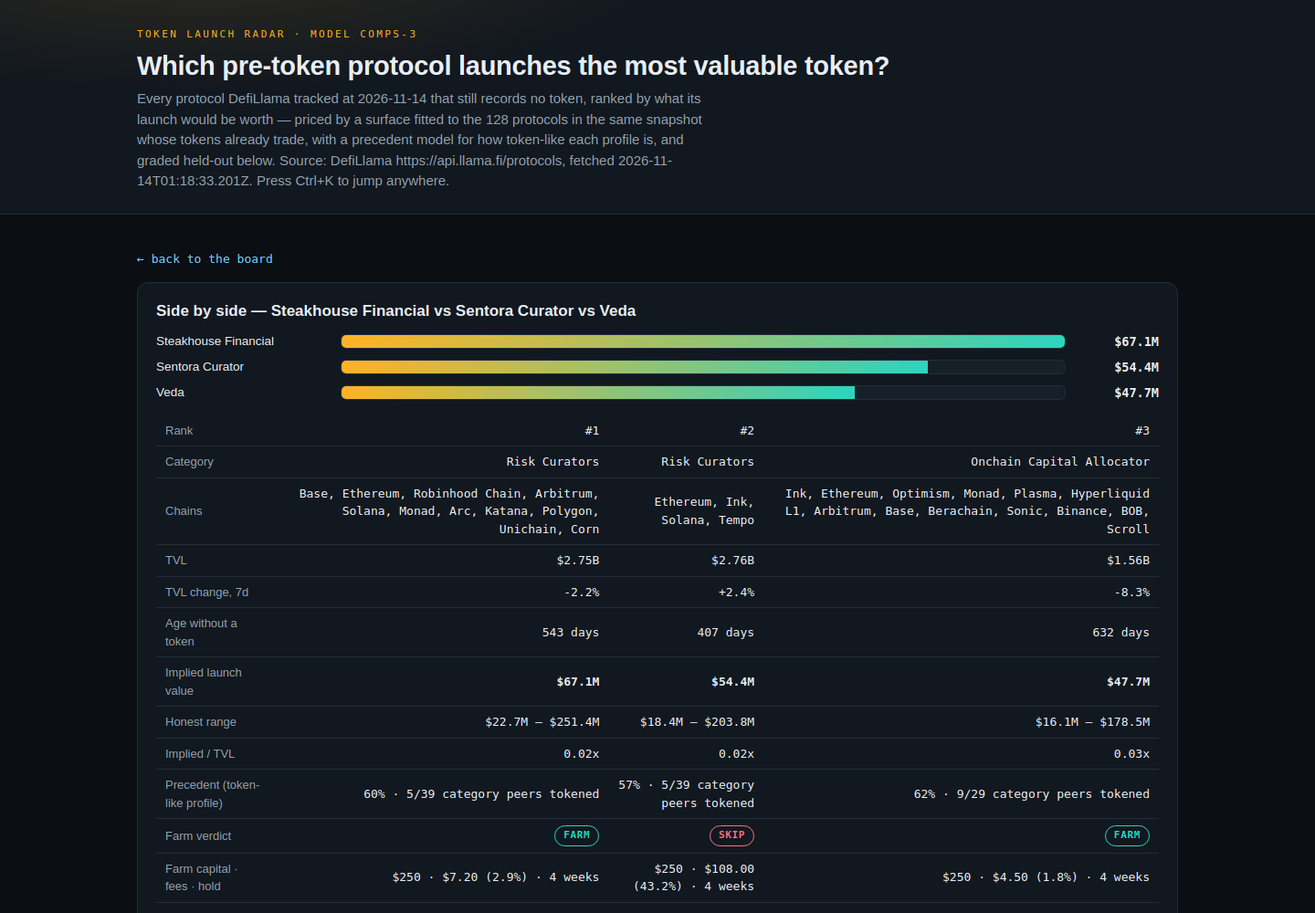
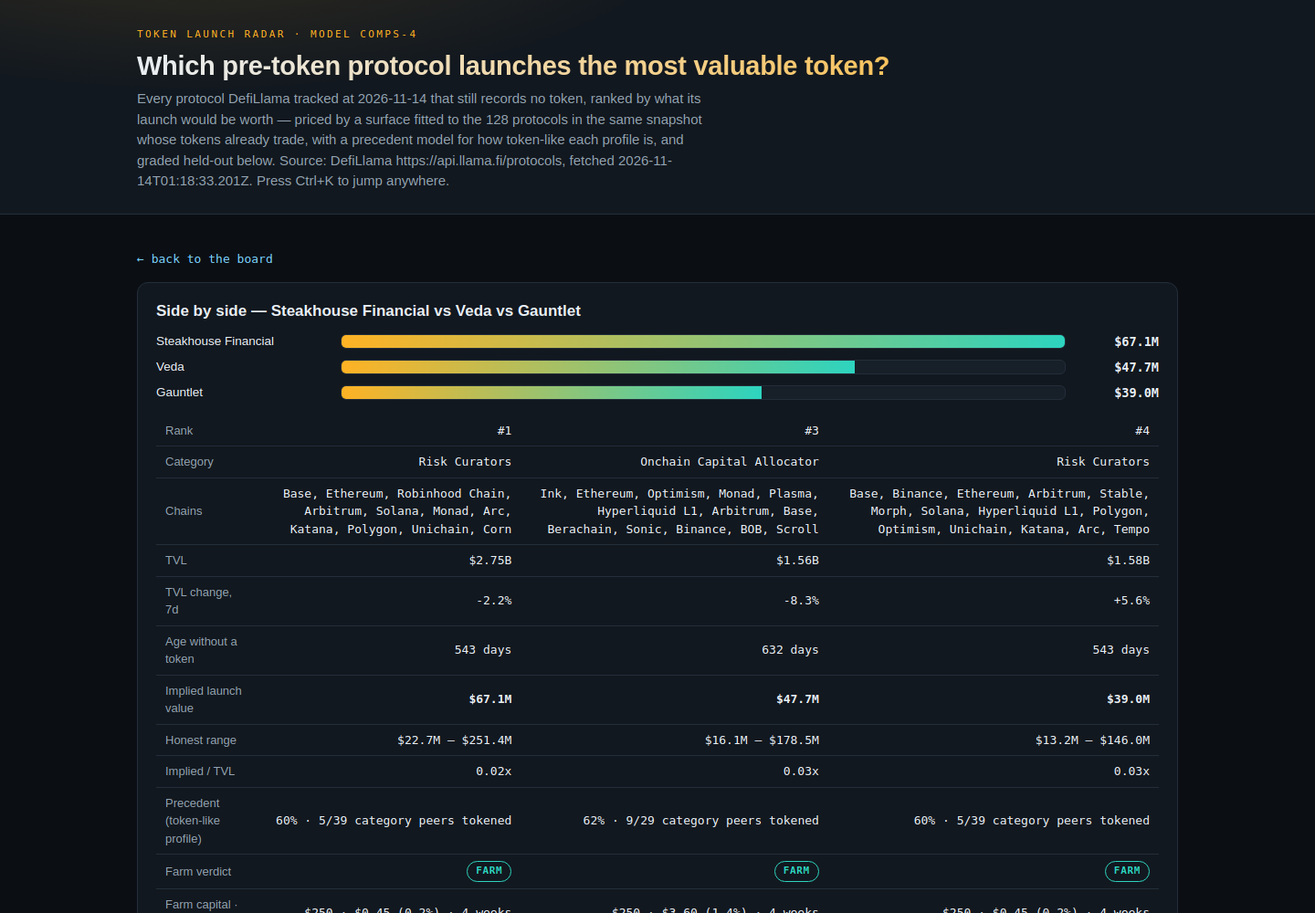
Model comps-4: side-by-side detail, weekly farm schedule, smart gas routing
- Detail view: farm plan and capital simulator side by side, model math
  collapsible below (no tabs); both visible in one viewport/screenshot
- Farm plans: week-by-week execution schedule with rotating category
  actions and cumulative fees (max 5 weeks spelled out + summary;
  10-12 steps per plan, inside the gate)
- Gas routing: plans run on the cheapest chain in the protocol's own
  chain list, with the main-chain counterfactual stated (45 routed;
  verdicts FARM 82 / THIN 81 / SKIP 35, was 51/88/59); Binance alias
  added to the gas table (the snapshot's name for BNB Chain)
- Model panel reordered so both fits grade in one screenshot; precedent
  note records the chain-count term tried and rejected held-out
  (AUC 0.611 vs 0.626 - Task D reverted per the ship rule)
- Value model, precedent model, board composition and ranking unchanged
  from comps-3 (verified: identical implied values and precedent %)

diff --git a/lib/model.ts b/lib/model.ts
@@ -1,4 +1,4 @@
-// Token launch radar — model "comps-3".
+// Token launch radar — model "comps-4".
 //
 // One sealed DefiLlama snapshot in, one ranked board out. Nothing here touches
 // the network and nothing is keyed to a protocol's name: every number a row
@@ -93,7 +93,7 @@ export interface Snapshot {
   watchlist: string[];
 }
 
-export const MODEL_VERSION = 'comps-3';
+export const MODEL_VERSION = 'comps-4';
 
 /** Shrinkage for the category term: a category's median residual counts n/(n+K). */
 export const CATEGORY_SHRINK_K = 12;
@@ -108,7 +108,7 @@ export const UNKNOWN_AGE_DAYS = 365;
 /** Gas per transaction in USD by main chain: the farm plan's price list, stated in the dashboard. */
 export const GAS_USD: Record<string, number> = {
   Ethereum: 12, Solana: 0.05, Base: 0.8, Arbitrum: 0.6, Optimism: 0.6,
-  'BNB Chain': 0.4, Polygon: 0.1, Avalanche: 0.5, Tron: 0.3, Sui: 0.05, Aptos: 0.05,
+  'BNB Chain': 0.4, Binance: 0.4, Polygon: 0.1, Avalanche: 0.5, Tron: 0.3, Sui: 0.05, Aptos: 0.05,
 };
 export const GAS_DEFAULT_USD = 0.5;
 
@@ -293,25 +293,27 @@ function oddsFeatures(snapshot: Snapshot, p: SnapshotProtocol): number[] {
   return [1, Math.log10(Math.max(1, p.tvl_usd)), Math.log10(1 + age)];
 }
 
+const dot = (a: number[], b: number[]): number => a.reduce((s, v, i) => s + v * b[i]!, 0);
+
 /** Logistic regression by Newton-Raphson on the normal equations, tiny ridge for stability. */
 function fitLogistic(rows: OddsRow[]): number[] {
-  let beta = [0, 0, 0];
+  const K = rows[0]?.x.length ?? 4;
+  let beta = Array.from({ length: K }, () => 0);
   for (let iter = 0; iter < 100; iter++) {
-    const g = [0, 0, 0];
-    const H = [[0, 0, 0], [0, 0, 0], [0, 0, 0]];
+    const g = Array.from({ length: K }, () => 0);
+    const H = Array.from({ length: K }, () => Array.from({ length: K }, () => 0));
     for (const r of rows) {
-      const z = beta[0]! * r.x[0]! + beta[1]! * r.x[1]! + beta[2]! * r.x[2]!;
-      const p = sigmoid(z);
+      const p = sigmoid(dot(beta, r.x));
       const w = Math.max(1e-9, p * (1 - p));
-      for (let i = 0; i < 3; i++) {
+      for (let i = 0; i < K; i++) {
         g[i]! += r.x[i]! * (r.y - p);
-        for (let j = 0; j < 3; j++) H[i]![j]! += r.x[i]! * r.x[j]! * w;
+        for (let j = 0; j < K; j++) H[i]![j]! += r.x[i]! * r.x[j]! * w;
       }
     }
-    H[0]![0]! += 1e-6; H[1]![1]! += 1e-6; H[2]![2]! += 1e-6;
+    for (let i = 0; i < K; i++) H[i]![i]! += 1e-6;
     const step = solve(H, g);
     let mx = 0;
-    for (let i = 0; i < 3; i++) { beta[i]! += step[i]!; mx = Math.max(mx, Math.abs(step[i]!)); }
+    for (let i = 0; i < K; i++) { beta[i]! += step[i]!; mx = Math.max(mx, Math.abs(step[i]!)); }
     if (mx < 1e-10) break;
   }
   return beta;
@@ -351,7 +353,7 @@ export function fitPrecedent(snapshot: Snapshot): OddsFit {
     const train = rows.filter((_, i) => i % FOLDS !== f);
     const test = rows.filter((_, i) => i % FOLDS === f);
     const c = fitLogistic(train);
-    for (const r of test) held.push({ p: sigmoid(c[0]! * r.x[0]! + c[1]! * r.x[1]! + c[2]! * r.x[2]!), y: r.y });
+    for (const r of test) held.push({ p: sigmoid(dot(c, r.x)), y: r.y });
   }
   const brier = held.reduce((s, r) => s + (r.p - r.y) ** 2, 0) / held.length;
   const base = rows.reduce((s, r) => s + r.y, 0) / rows.length;
@@ -366,7 +368,7 @@ export function fitPrecedent(snapshot: Snapshot): OddsFit {
 
 export function precedentPct(fit: OddsFit, snapshot: Snapshot, p: SnapshotProtocol): number {
   const x = oddsFeatures(snapshot, p);
-  return Math.round(100 * sigmoid(fit.coef[0]! * x[0]! + fit.coef[1]! * x[1]! + fit.coef[2]! * x[2]!));
+  return Math.round(100 * sigmoid(dot(fit.coef, x)));
 }
 
 /** Category peer counts over the whole snapshot: how many peers record a token. */
@@ -393,6 +395,10 @@ export interface FarmPlan {
   verdict: 'FARM' | 'THIN' | 'SKIP';
   verdict_reason: string;
   steps: string[];
+  /** Set only when the plan routes gas to a cheaper chain in the protocol's own list. */
+  routed_chain?: string;
+  original_chain?: string;
+  original_gas?: number;
 }
 
 function capitalFor(tvl: number): number {
@@ -438,34 +444,90 @@ function actionsFor(p: SnapshotProtocol): { primary: string; secondary: string }
   return { primary: `deposit USDC into ${n} and keep the position open`, secondary: `make a second, smaller deposit from the same wallet` };
 }
 
+/** Four rotating weekly actions per category family — the week-by-week execution schedule. */
+function weeklyActionsFor(p: SnapshotProtocol): string[] {
+  const c = (p.category ?? '').toLowerCase();
+  const n = p.name;
+  if (c.includes('lend') || c.includes('cdp') || c.includes('collateral'))
+    return [`deposit extra USDC collateral to ${n}`, `repay a slice of the borrow, then borrow it back`, `claim any lending rewards ${n} shows for the wallet`, `rebalance the collateral ratio on ${n} back to its starting level`];
+  if (c.includes('dex') || c.includes('amm'))
+    return [`swap a small USDC amount through ${n}'s main pool`, `add a little liquidity to a second ${n} pair`, `claim the LP fees ${n} accrued for the wallet`, `rebalance the liquidity position in ${n} to the current price`];
+  if (c.includes('curator') || c.includes('allocator'))
+    return [`deposit a small extra amount into the primary ${n} vault`, `shift a small share of the position to ${n}'s second vault`, `claim the vault yield ${n} shows for the wallet`, `rebalance the position between ${n}'s vaults`];
+  if (c.includes('derivative') || c.includes('perpetual'))
+    return [`adjust the margin on the hedged ${n} position`, `close one leg of the hedge and reopen it at the current price`, `claim any funding or rebate ${n} shows for the wallet`, `open a second small hedge in a different ${n} pair`];
+  if (c.includes('prediction'))
+    return [`take a small position in a different ${n} market`, `exit part of an existing ${n} position`, `claim any resolved winnings from ${n}`, `re-enter a ${n} market with updated sizing`];
+  if (c.includes('yield'))
+    return [`claim the yield from ${n}'s vault and redeposit it`, `deposit a small extra amount into ${n}`, `compare ${n}'s vaults and shift to the best rate`, `compound the accumulated rewards inside ${n}`];
+  if (c.includes('rwa'))
+    return [`mint a small additional amount of ${n}'s yield asset`, `redeem a small part of the ${n} position and mint it again`, `claim any distribution ${n} shows for the wallet`, `review and renew the ${n} position`];
+  return [`deposit a small extra amount into ${n}`, `use a secondary feature of ${n}'s app`, `claim any rewards ${n} shows for the wallet`, `rebalance or renew the ${n} position`];
+}
+
+/** The cheapest gas chain in a protocol's own chain list — plans route there when it beats the main chain. */
+function bestChain(chains: string[]): { chain: string; gas: number; routed: boolean; original_chain: string; original_gas: number } {
+  if (chains.length === 0)
+    return { chain: 'its main chain', gas: GAS_DEFAULT_USD, routed: false, original_chain: 'its main chain', original_gas: GAS_DEFAULT_USD };
+  const primary = chains[0]!;
+  const primaryGas = GAS_USD[primary] ?? GAS_DEFAULT_USD;
+  let bestName = primary;
+  let bestGas = primaryGas;
+  for (const ch of chains) {
+    const g = GAS_USD[ch];
+    if (g !== undefined && g < bestGas) { bestName = ch; bestGas = g; }
+  }
+  return { chain: bestName, gas: bestGas, routed: bestName !== primary, original_chain: primary, original_gas: primaryGas };
+}
+
 const money = (v: number): string => (v >= 100 ? `$${Math.round(v)}` : `$${v.toFixed(2)}`);
 
-/** A protocol's costed farm plan: every step names its cost and its time. */
+/** A protocol's costed farm plan: gas routed to the cheapest of its own chains, a week-by-week schedule, every step costed and timed. */
 export function farmPlan(p: SnapshotProtocol, age: number | null): FarmPlan {
-  const chain = p.chains.length > 0 ? p.chains[0]! : 'its main chain';
-  const gas = GAS_USD[chain] ?? GAS_DEFAULT_USD;
+  const route = bestChain(p.chains);
+  const chain = route.chain;
+  const gas = route.gas;
   const capital = capitalFor(p.tvl_usd);
   const weeks = weeksFor(age);
   const txCount = weeks + 5; // wallet setup, primary, secondary, one weekly action per week, claim, exit
   const fees = Math.round(gas * txCount * 100) / 100;
   const drag = fees / capital;
   const verdict = drag <= FARM_MAX_DRAG ? 'FARM' : drag <= THIN_MAX_DRAG ? 'THIN' : 'SKIP';
-  const verdict_reason = verdict === 'FARM'
+  let verdict_reason = verdict === 'FARM'
     ? `fees of ${money(fees)} are ${(drag * 100).toFixed(1)}% of the ${money(capital)} position, under the 5% FARM line`
     : verdict === 'THIN'
       ? `fees of ${money(fees)} are ${(drag * 100).toFixed(1)}% of the ${money(capital)} position: farm only with a larger position or a cheaper chain`
       : `fees of ${money(fees)} eat ${(drag * 100).toFixed(1)}% of the ${money(capital)} position, over the 15% SKIP line at this size`;
+  if (route.routed) {
+    const origFees = Math.round(route.original_gas * txCount * 100) / 100;
+    const origDrag = origFees / capital;
+    const origVerdict = origDrag <= FARM_MAX_DRAG ? 'FARM' : origDrag <= THIN_MAX_DRAG ? 'THIN' : 'SKIP';
+    verdict_reason += ` — routed from ${route.original_chain} at ${money(route.original_gas)} a transaction, where the same plan would be ${origVerdict} at ${(origDrag * 100).toFixed(1)}% drag`;
+  }
   const { primary, secondary } = actionsFor(p);
+  const rotation = weeklyActionsFor(p);
   const steps = [
-    `Open a fresh wallet for ${p.name} alone and keep its seed phrase offline on paper. Cost: ${money(gas)} for the first ${chain} transaction. Time: 5 minutes.`,
+    `Open a fresh wallet for ${p.name} alone and keep its seed phrase offline on paper. Cost: ${money(gas)} for the first ${chain} transaction${route.routed ? ` — the plan runs on ${chain}, the cheapest chain in ${p.name}'s own list, not on ${route.original_chain} at ${money(route.original_gas)} a transaction` : ''}. Time: 5 minutes.`,
     `Capital step: ${primary}. Cost: ${money(capital)} of capital plus ${money(gas)} of ${chain} gas. Time: 15 minutes to set up.`,
     `Second action: ${secondary}. Cost: ${money(gas)} of ${chain} gas, no new capital. Time: 10 minutes.`,
-    `Repeat one qualifying action a week for ${weeks} weeks (a deposit, a swap, a claim or a vote in ${p.name}'s app). Cost: ${money(gas)} a week, ${money(gas * weeks)} in all. Time: 10 minutes a week.`,
-    `Hold the ${money(capital)} position for the full ${weeks} weeks so the activity spans more than one weekly snapshot. Cost: the capital stays locked; the whole plan's fees come to ${money(fees)}. Time: ${weeks} weeks.`,
-    `Check ${p.name}'s own points or rewards page and claim only from the link it publishes; never pay a third party to claim. Cost: ${money(gas)} of gas, and no fee to check. Time: 10 minutes.`,
-    `Log the wallet, the dates and every transaction hash, then unwind or roll the position by the same steps in reverse. Cost: ${money(gas)} of gas to exit. Time: 10 minutes.`,
   ];
-  return { capital_usd: capital, gas_per_tx_usd: gas, weeks, fees_usd: fees, fee_drag_pct: Math.round(drag * 1000) / 10, verdict, verdict_reason, steps };
+  // Week-by-week schedule: at most 5 weeks spelled out, the rest summarised — keeps every plan inside the 12-step gate.
+  const MAX_WEEK_STEPS = 5;
+  const detailedWeeks = Math.min(weeks, MAX_WEEK_STEPS);
+  for (let w = 0; w < detailedWeeks; w++) {
+    const action = rotation[w % rotation.length]!;
+    steps.push(`Week ${w + 1}: ${action}. Cost: ${money(gas)} of ${chain} gas; cumulative plan fees so far ${money(gas * (4 + w))}. Time: 10 minutes.`);
+  }
+  if (weeks > MAX_WEEK_STEPS) {
+    const remaining = weeks - MAX_WEEK_STEPS;
+    steps.push(`Weeks ${MAX_WEEK_STEPS + 1}–${weeks}: keep the same weekly rotation for ${remaining} more weeks, one transaction a week. Cost: ${money(gas * remaining)} of ${chain} gas in all. Time: 10 minutes a week.`);
+  }
+  steps.push(`Hold the ${money(capital)} position open across the whole ${weeks}-week schedule so the activity spans more than one weekly snapshot. Cost: the capital stays locked; the whole plan's fees come to ${money(fees)}. Time: ${weeks} weeks.`);
+  steps.push(`Check ${p.name}'s own points or rewards page and claim only from the link it publishes; never pay a third party to claim. Cost: ${money(gas)} of gas, and no fee to check. Time: 10 minutes.`);
+  steps.push(`Log the wallet, the dates and every transaction hash, then unwind or roll the position by the same steps in reverse. Cost: ${money(gas)} of gas to exit. Time: 10 minutes.`);
+  const plan: FarmPlan = { capital_usd: capital, gas_per_tx_usd: gas, weeks, fees_usd: fees, fee_drag_pct: Math.round(drag * 1000) / 10, verdict, verdict_reason, steps };
+  if (route.routed) { plan.routed_chain = chain; plan.original_chain = route.original_chain; plan.original_gas = route.original_gas; }
+  return plan;
 }
 
 // ---------- the board ----------

diff --git a/dashboard/app.js b/dashboard/app.js
@@ -71,7 +71,6 @@ function modelPanel() {
     the comps (shrunk by n/(n+12) so thin categories barely count), then tilted once, by track record
     (0.6–1.0 over three years without a token). No protocol's name is an input. The grading below is 5-fold held-out,
     recomputed on every run of the program: each fold's comps are predicted from a fit on the other four.</p>
-    ${scatter()}
     <table class="val"><thead><tr><th>Model</th><th>Median held-out error</th><th>Reading</th></tr></thead><tbody>
       <tr><td>Flat 0.25 × TVL (the starter rule)</td><td>${v.flat.toFixed(2)}x</td><td>a typical comp is missed by this factor</td></tr>
       <tr><td>Size-only curve + category term</td><td>${v.curveCat.toFixed(2)}x</td><td>TVL alone, fitted</td></tr>
@@ -85,7 +84,10 @@ function modelPanel() {
     exception, not the rule. Graded ${o.folds}-fold held-out like the value model: <b>AUC ${o.auc}</b> (0.5 is guessing) and
     <b>Brier ${o.brier}</b>, against ${o.base_brier} for always answering the base rate — a modest, honest edge, printed
     because a radar should show its instruments' limits. Each board row carries the estimate plus the raw count behind it:
-    how many of its category peers already record a token. It is a precedent rate, never a promise that a token comes.</p>
+    how many of its category peers already record a token. It is a precedent rate, never a promise that a token comes.
+    A chain-count term (how many chains a protocol runs on) was tried as a third predictor and rejected: it graded worse
+    held out (AUC 0.611 against this model's ${o.auc}), so it is not in the fit.</p>
+    ${scatter()}
   </section>`;
 }
 
@@ -143,7 +145,7 @@ function boardView() {
     <td>${r.age_days === null ? '—' : fmtN(r.age_days) + 'd'}</td>
     <td><b>${r.precedent_pct}%</b><span class="slug">${r.peer_token}/${r.peer_total} peers tokened</span></td>
     <td><b>${fmt$(r.implied_value_usd)}</b></td>
-    <td><span class="badge ${r.farm.verdict}">${r.farm.verdict}</span></td>
+    <td><span class="badge ${r.farm.verdict}">${r.farm.verdict}</span>${r.farm.routed_chain ? `<span class="routed">→ ${esc(r.farm.routed_chain)}</span>` : ''}</td>
     <td class="tools"><button class="tool pinb" data-pin="${esc(r.slug)}" title="Pin this protocol">${pins.has(r.slug) ? 'pinned' : 'pin'}</button><label class="cmpl" title="Select to compare"><input type="checkbox" data-cmp="${esc(r.slug)}" ${cmp.includes(r.slug) ? 'checked' : ''}> cmp</label></td></tr>`).join('');
   const pinStrip = pins.size === 0 ? '' : `<div class="strip"><span class="strip-label">Pinned:</span>${[...pins].map((s) => `<a class="chip" href="#/p/${esc(s)}">${esc(bySlug.get(s).name)}</a>`).join('')}<button class="tool" id="clearpins">clear pins</button></div>`;
   const cmpBar = cmp.length === 0 ? '' : `<div class="strip cmpstrip"><span class="strip-label">Compare (${cmp.length}/3):</span>${cmp.map((s) => `<span class="chip">${esc(bySlug.get(s).name)}</span>`).join('')}<button class="tool go" id="gocmp" ${cmp.length < 2 ? 'disabled' : ''}>compare side by side →</button><button class="tool" id="clearcmp">clear</button></div>`;
@@ -207,8 +209,7 @@ function compareView() {
   <p class="note">Every figure is the board's own: implied values from the fitted surface, ranges from the comps' residuals, precedent from the logistic fit and its peer counts, farm figures from each protocol's costed plan.</p></section>`;
 }
 
-/* ---------- detail view: tabs for plan, model math, simulator ---------- */
-let dtab = 'plan';
+/* ---------- detail view: farm plan and simulator side by side, model math below ---------- */
 const simState = new Map();
 function simFor(r) {
   if (!simState.has(r.slug)) simState.set(r.slug, { capital: r.farm.capital_usd, pool: 2, share: 0.25 });
@@ -225,28 +226,27 @@ function simCalc(r) {
     breakeven: r.implied_value_usd * s.share > 0 ? (fees / (r.implied_value_usd * s.share)) * 10000 : 0,
   };
 }
-function simPanel(r) {
+function simColumn(r) {
   const s = simFor(r), c = simCalc(r);
   const num = (id, val, step) => `<input type="number" id="${id}" value="${val}" step="${step}" min="0">`;
-  return `<section class="panel"><h2>Capital simulator — what the plan pays under stated assumptions</h2>
+  return `<div class="dcol"><h3>Capital simulator — what the plan pays under stated assumptions</h3>
     <p class="note">Scenario arithmetic, not a forecast. You set three assumptions; the page does the rest from this row's own
     figures. The reward pool is the share of the launch's implied value you assume is paid to farmers; your share is the slice
     of that pool you assume this one wallet earns. The plan's fees are gas-driven and do not scale with capital.</p>
-    <div class="sim">
+    <div class="sim-compact">
       <label>Your capital (USD) ${num('simcap', s.capital, '10')}</label>
-      <label>Reward pool, % of implied value ${num('simpool', s.pool, '0.5')}</label>
+      <label>Reward pool, % of implied ${num('simpool', s.pool, '0.5')}</label>
       <label>Your share of the pool, % ${num('simshare', s.share, '0.1')}</label>
     </div>
-    <div class="stats">
+    <div class="stats s2">
       <div class="stat"><b>${fmt$(c.low)} – ${fmt$(c.high)}</b><span>reward at the honest range</span></div>
       <div class="stat"><b>${fmt$(c.mid)}</b><span>reward at the implied value</span></div>
       <div class="stat"><b class="${c.net >= 0 ? 'pos' : 'neg'}">${c.net >= 0 ? '+' : '−'}${fmt$(Math.abs(c.net))}</b><span>net of the plan's $${c.fees.toFixed(2)} fees, at implied</span></div>
       <div class="stat"><b>${c.roi.toFixed(1)}%</b><span>net return on your capital</span></div>
     </div>
     <p class="note">Break-even: the pool would need to be <b>${c.breakeven.toFixed(2)}%</b> of the implied value (at your assumed share)
-    for the reward to cover the plan's fees alone. Compare that with what launches in this category have historically shared —
-    the model's job is the value and the precedent; the assumptions, and the call, are yours.</p>
-  </section>`;
+    for the reward to cover the plan's fees alone. The model's job is the value and the precedent; the assumptions, and the call, are yours.</p>
+  </div>`;
 }
 
 function detailView(r) {
@@ -255,13 +255,11 @@ function detailView(r) {
   const drift = Math.abs(recomputed - r.implied_value_usd) / r.implied_value_usd;
   const prec = Math.round(100 * sigmoid(o.a + o.b * Math.log10(Math.max(1, r.tvl_usd)) + o.c * Math.log10(1 + (r.age_days ?? 365))));
   const stat = (b, s) => `<div class="stat"><b>${b}</b><span>${s}</span></div>`;
-  const tabs = [['plan', 'Farm plan'], ['math', 'Model math'], ['sim', 'Simulator']].map(([k, t]) => `<button class="tab ${dtab === k ? 'on' : ''}" data-tab="${k}">${t}</button>`).join('');
-  let body = '';
-  if (dtab === 'plan') body = `<section class="panel"><h2>Farm plan — costed, with a verdict</h2>
-    <div class="planhead"><span class="badge ${r.farm.verdict}">${r.farm.verdict}</span><span class="why">${esc(r.farm.verdict_reason)}. Gas is priced on ${esc(r.chains[0] || 'its main chain')} at $${r.farm.gas_per_tx_usd} a transaction, the plan's stated rate.</span></div>
+  const planCol = `<div class="dcol"><h3>Farm plan — costed, with a verdict</h3>
+    <div class="planhead"><span class="badge ${r.farm.verdict}">${r.farm.verdict}</span>${r.farm.routed_chain ? `<span class="badge FARM route">ROUTED → ${esc(r.farm.routed_chain)}</span>` : ''}<span class="why">${esc(r.farm.verdict_reason)}. Gas is priced on ${esc(r.farm.routed_chain || r.chains[0] || 'its main chain')} at $${r.farm.gas_per_tx_usd} a transaction, the plan's stated rate.</span></div>
     <ol class="steps">${r.farm_steps.map((s) => `<li>${esc(s)}</li>`).join('')}</ol>
-  </section>`;
-  else if (dtab === 'math') body = `<section class="panel"><h2>How this value is derived — recomputed here, in the page</h2>
+  </div>`;
+  const mathSection = `<details class="panel"><summary>Model math — how this value is derived, recomputed here in the page</summary>
     <div class="calc">
       size line&nbsp;&nbsp;&nbsp;= 10^(${f.a} + ${f.b} × log10(${fmtN(r.tvl_usd)})) = ${fmt$(Math.pow(10, f.a + f.b * Math.log10(Math.max(1, r.tvl_usd))))}<br>
       momentum term = 10^(${f.g} × ${r.growth_term}) — its 7-day TVL change of ${pct(r.change_7d)}, winsorized, inside the fit<br>
@@ -273,8 +271,8 @@ function detailView(r) {
     </div>
     <p class="note">Read it as the market's own pricing carried across: protocols like this one, at this size, in this category,
     trade at these values today. It is a claim about what a launch would be worth if the record stayed as it is — not a prediction that a token comes.</p>
-  </section>`;
-  else body = simPanel(r);
+  </details>`;
+  const body = `<div class="detail-split">${planCol}${simColumn(r)}</div>${mathSection}`;
   return `<p><a class="back" href="#/">← back to the board</a> &nbsp;<button class="tool pinb" data-pin="${esc(r.slug)}">${pins.has(r.slug) ? 'pinned' : 'pin this protocol'}</button></p>
   <div class="dhead"><h2>${esc(r.name)}</h2><span class="badge ${r.farm.verdict}">${r.farm.verdict}</span>${r.watchlist ? '<span class="watch">ON THE WATCHLIST</span>' : '<span class="slug">found under the watchlist floor</span>'}</div>
   <p class="note">${esc(r.slug)} · ${esc(r.category || 'uncategorised')} · on ${esc(r.chains.join(', ') || 'no named chain')} · records no token in the ${R.as_of} snapshot (no market cap, no CoinGecko id, no symbol).</p>
@@ -288,7 +286,6 @@ function detailView(r) {
     ${stat('$' + r.farm.fees_usd.toFixed(2), `plan fees · ${r.farm.fee_drag_pct}% of capital`)}
     ${stat(r.farm.weeks + ' weeks', 'plan hold')}
   </div>
-  <div class="tabs">${tabs}</div>
   ${body}`;
 }
 
@@ -333,11 +330,10 @@ function render() {
   if (m && bySlug.has(m[1])) {
     app.innerHTML = detailView(bySlug.get(m[1]));
     window.scrollTo(0, 0);
-    app.querySelectorAll('[data-tab]').forEach((b) => b.addEventListener('click', () => { dtab = b.dataset.tab; render(); }));
     app.querySelectorAll('[data-pin]').forEach((b) => b.addEventListener('click', () => { pins.has(b.dataset.pin) ? pins.delete(b.dataset.pin) : pins.add(b.dataset.pin); render(); }));
     const r = bySlug.get(m[1]), s = simFor(r);
     const wire = (id, key, parse) => { const el = $(id); if (el) el.addEventListener('input', () => { s[key] = parse(el.value); render(); const n = $(id); if (n) { n.focus(); n.setSelectionRange(String(n.value).length, String(n.value).length); } }); };
-    if (dtab === 'sim') { wire('#simcap', 'capital', Number); wire('#simpool', 'pool', Number); wire('#simshare', 'share', Number); }
+    wire('#simcap', 'capital', Number); wire('#simpool', 'pool', Number); wire('#simshare', 'share', Number);
   } else if (location.hash === '#/compare' && cmp.length >= 2) {
     app.innerHTML = compareView();
     window.scrollTo(0, 0);
@@ -374,4 +370,5 @@ $('#foot').innerHTML =
   `on the same snapshot rates how token-like each profile is; track record tilts the ranking; ` +
   `farm plans are costed from each protocol's own chain, category, TVL and age, and verdicted on fee drag (FARM ≤ 5%, THIN ≤ 15%, SKIP above).</p>` +
   `<p>Gas price list used by every plan (per transaction): Ethereum $12 · Base $0.80 · Arbitrum $0.60 · Optimism $0.60 · Avalanche $0.50 · BNB Chain $0.40 · Tron $0.30 · Polygon $0.10 · Solana $0.05 · Sui $0.05 · Aptos $0.05 · any other chain $0.50. ` +
+  `When a protocol operates on several chains, its plan routes to the cheapest gas chain in its own list, and the plan says so. ` +
   `The page renders with no network; the board it shows is the board.json the program wrote, and each detail view recomputes its value and its precedent from the printed fits.</p>`;

diff --git a/dashboard/app.css b/dashboard/app.css
@@ -118,3 +118,24 @@ span.chip{color:var(--text);border-color:var(--line)}
 #pallist li.none{cursor:default}
 @media (max-width:900px){.kpis{grid-template-columns:repeat(3,1fr)}.stats{grid-template-columns:repeat(2,1fr)}h1{font-size:23px}.sim{grid-template-columns:1fr}.bar-row{grid-template-columns:110px 1fr 76px}}
 @media (max-width:560px){.kpis{grid-template-columns:repeat(2,1fr)}}
+/* v4: detail split — farm plan and simulator side by side, model math collapsible below */
+.detail-split{display:grid;grid-template-columns:1fr 1fr;gap:16px;margin:0 0 16px;align-items:start}
+.dcol{background:var(--panel);border:1px solid var(--line);border-radius:12px;padding:16px 18px}
+.dcol h3{font-size:15px;margin:0 0 10px;font-weight:700}
+.dcol .steps{margin:8px 0 0;padding-left:20px}
+.dcol .steps li{margin-bottom:7px;font-size:13px}
+.sim-compact{display:grid;grid-template-columns:1fr 1fr 1fr;gap:8px;margin:8px 0 12px}
+.sim-compact label{color:var(--dim);font-size:12px;display:flex;flex-direction:column;gap:4px}
+.sim-compact input{background:var(--panel2);color:var(--text);border:1px solid var(--line);border-radius:6px;padding:7px 9px;font-size:14px;font-family:var(--mono)}
+.stats.s2{grid-template-columns:repeat(2,1fr)}
+details.panel summary{cursor:pointer;font-size:15px;font-weight:700;padding:2px 0}
+.badge.route{font-size:10px}
+@media (max-width:900px){.detail-split{grid-template-columns:1fr}.sim-compact{grid-template-columns:1fr}}
+/* v4 visual density */
+.board th{background:var(--panel2);position:sticky;top:0;z-index:2}
+.badge{font-weight:800;text-transform:uppercase}
+.kpi{background:linear-gradient(135deg,var(--panel) 60%,var(--panel2));transition:border-color .2s}
+.kpi:hover{border-color:var(--faint)}
+h1{background:linear-gradient(90deg,var(--text),var(--amber));-webkit-background-clip:text;-webkit-text-fill-color:transparent;background-clip:text}
+.board tbody tr:nth-child(even){background:rgba(255,255,255,.015)}
+.routed{color:var(--sky);font-size:11px;font-family:var(--mono)}

diff --git a/dashboard/index.html b/dashboard/index.html
@@ -9,7 +9,7 @@
 <body>
 <header class="top">
   <div class="wrap">
-    <p class="kicker">TOKEN LAUNCH RADAR · MODEL COMPS-3</p>
+    <p class="kicker">TOKEN LAUNCH RADAR · MODEL COMPS-4</p>
     <h1>Which pre-token protocol launches the most valuable token?</h1>
     <p class="sub" id="sub">Loading the board…</p>
   </div>

diff --git a/README.md b/README.md
@@ -48,17 +48,20 @@ record a token).
 the watchlist's own exclusion rules let through (no wrapped/staked/bridged
 product, no versioned pool, no exchange product), at any TVL. Each row
 carries a farm plan costed from the row itself — capital tier from TVL, gas
-from its main chain, hold from its age, actions from its category — with a
-verdict from fee drag: FARM ≤ 5%, THIN ≤ 15%, SKIP above.
+routed to the cheapest chain in the protocol's own chain list, hold from
+its age, actions from its category — laid out as a week-by-week execution
+schedule with cumulative fees, and verdicted on fee drag: FARM ≤ 5%,
+THIN ≤ 15%, SKIP above. When routing changes the chain, the plan says what
+the same schedule would have cost on the main chain.
 
 The dashboard is static and renders fully offline: sortable, filterable,
 exportable to CSV, with pins, a side-by-side compare view for up to three
-protocols, and a Ctrl+K command palette. Each protocol's detail view has
-three tabs — the costed farm plan; the model math, recomputed in the page
-from the printed fits (value and precedent alike); and a capital
-simulator that runs the plan's economics under stated reward assumptions
-(pool size and wallet share, both set by the reader) and reports the
-reward range, the net of fees, and the break-even pool.
+protocols, and a Ctrl+K command palette. Each protocol's detail view shows
+the costed farm plan and a capital simulator side by side — the simulator
+runs the plan's economics under stated reward assumptions (pool size and
+wallet share, both set by the reader) and reports the reward range, the
+net of fees, and the break-even pool — with the model math, recomputed in
+the page from the printed fits (value and precedent alike), below them.
 
 ## Run it
 
